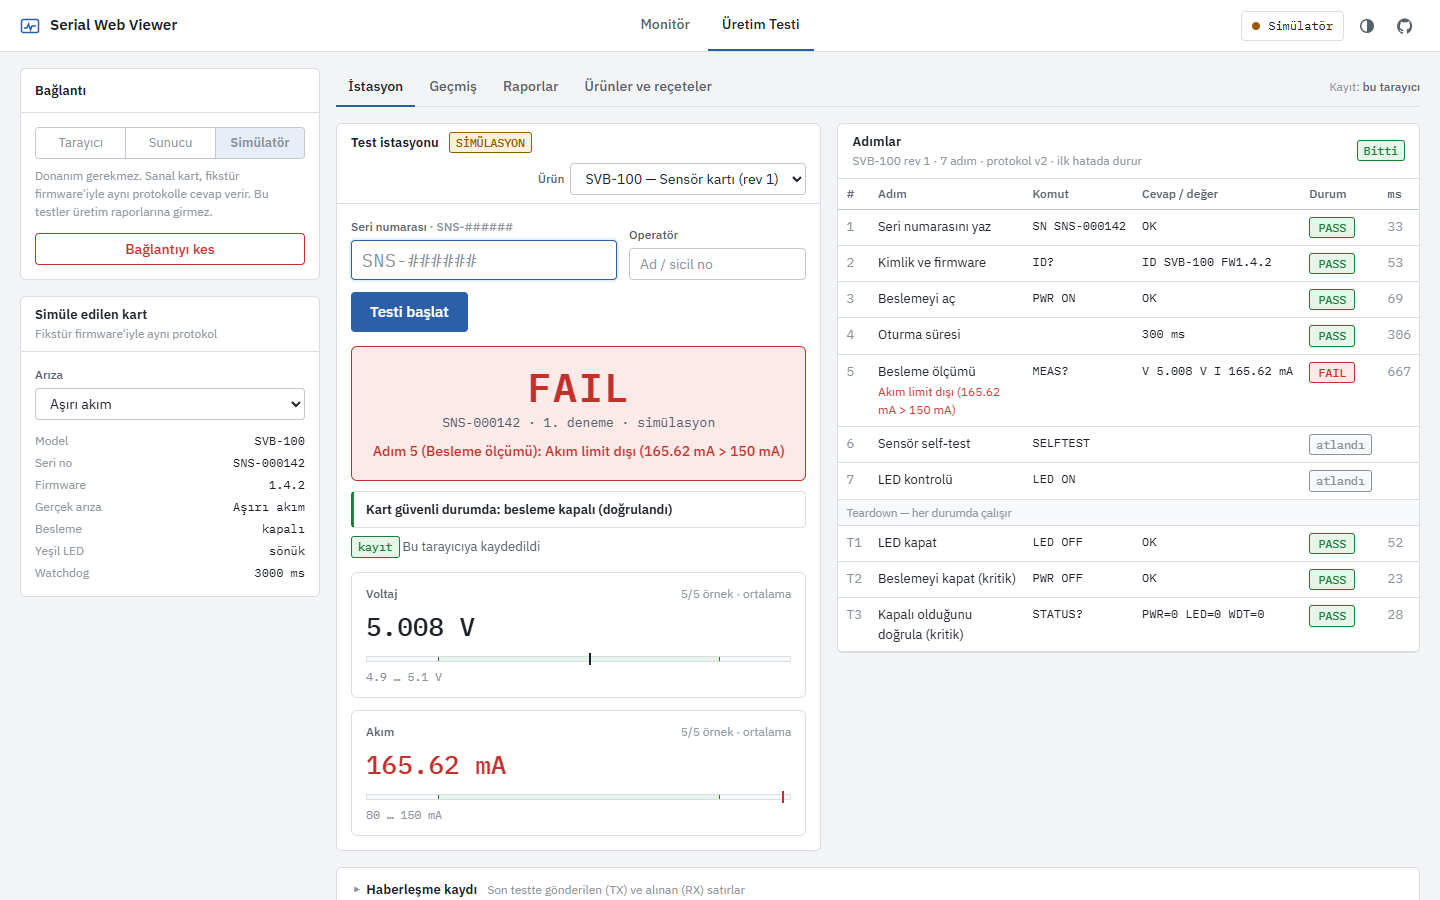
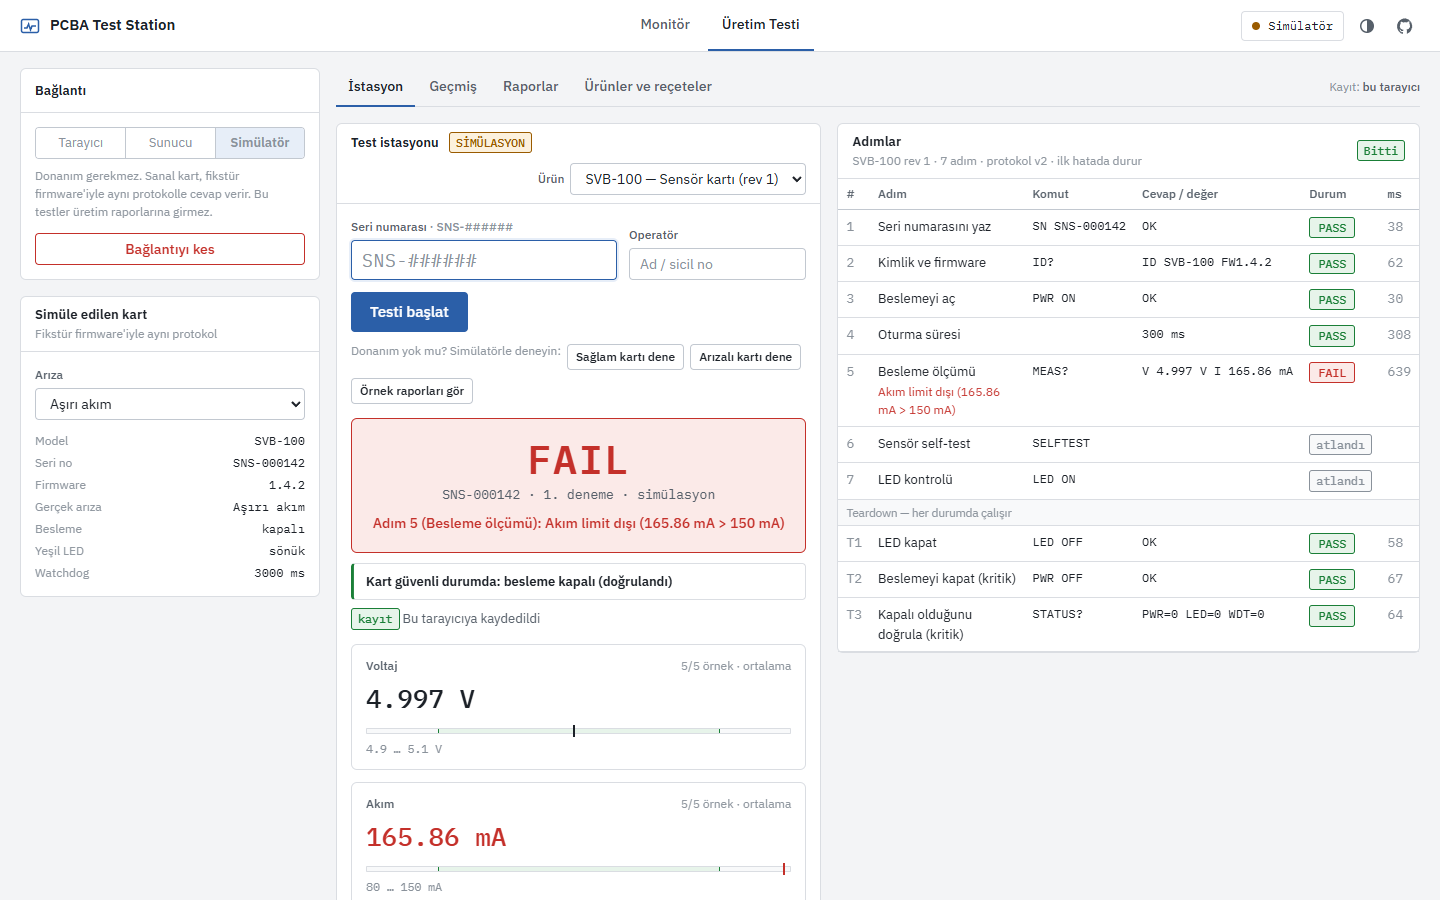
docs: sync the Turkish README and retake screenshots with the new name
README.tr.md gets the details added to the English README (time zones, interrupted runs, security headers, sample data, quick-try buttons). The screenshots showed the old name in the header and predate the quick-try buttons.

diff --git a/README.tr.md b/README.tr.md
@@ -119,7 +119,7 @@ Konsolda `İlk kurulum: … kurulum kodu: XXXX` satırını görün, `http://loc
 |---|---|---|
 | `PORT` / `HOST` | `3000` / `127.0.0.1` | `0.0.0.0` yapılırsa ağdaki herkes arayüze ulaşır; o durumda önüne HTTPS'li bir ters vekil koyun |
 | `BAUD_RATE` | `9600` | Varsayılan baud rate (arayüzden değiştirilebilir) |
-| `DB_PATH` | `./data/serial-viewer.db` | SQLite dosyası |
+| `DB_PATH` | `./data/serial-viewer.db` | SQLite dosyası (adı projenin ilk adından kalma; mevcut kurulumlar için korunuyor) |
 | `STATION_ID`, `FIXTURE_ID` | bilgisayar adı, boş | Her kayda yazılır |
 | `CALIBRATION_ID`, `CALIBRATION_DUE` | boş | Kalibrasyon kaydı; son tarih geçtiyse gerçek kart testi reddedilir |
 | `BUILD_SHA` | boş | Kayıtlardaki uygulama sürümüne eklenir |
@@ -187,8 +187,9 @@ node scripts/db.js restore yedek-2026-10-26.db   # sunucu kapalıyken
 | `public/js/results-store.js` | Sunucu ve tarayıcı deposu, aynı arayüzle |
 | `public/js/production.js` | Kayıt doğrulama, tekrar test kuralı, CSV, verim ve Cpk |
 | `public/js/history-ui.js`, `reports-ui.js`, `products-ui.js` | Geçmiş, raporlar, reçete editörü |
+| `public/js/demo-data.js` | Örnek veri: sanal saatte iki haftalık simüle üretim |
 | `public/js/monitor.js` | Ham log, HEX, kayıt, grafikler, komut gönderme |
-| `server.js`, `lib/` | Express, Socket.io köprüsü ve port kilidi, kimlik doğrulama, REST API |
+| `server.js`, `lib/` | Express, Socket.io köprüsü ve port kilidi, kimlik doğrulama, REST API, güvenlik başlıkları |
 | `db.js` | SQLite şeması, sürüm geçişleri, sayfalı sorgular, akışlı dışa aktarma, yedek |
 | `examples/arduino/svb_fixture` | Protokolü uygulayan fikstür firmware'i |
 
@@ -209,7 +210,7 @@ Tüm uçlar oturum ister (`/health` hariç). Hatalar `{ errors: [...], code? }` 
 | POST | `/api/runs` (rezervasyon), `/api/runs/:runId/abandon` | operatör |
 | POST | `/api/tests` (`runId` ile idempotent; karar sunucuda hesaplanır) | operatör |
 | GET | `/api/tests?…&limit=&offset=` (özet + toplam), `/api/tests/:id` (detay), `/api/tests/export.csv` (akışlı) | operatör |
-| GET | `/api/reports`, `/api/reports/measurement?product=&key=` | operatör |
+| GET | `/api/reports?tz=`, `/api/reports/measurement?product=&key=` | operatör |
 | GET | `/api/audit` | mühendis |
 | GET | `/api/admin/backup`, `/api/users` … | yönetici |
 
@@ -224,9 +225,9 @@ npm run lint
 - **Ölçüm ve karar:** NaN / Infinity / taşma, eksik ve fazla örnek, değerlendirme modları, kayıt-reçete uyumu.
 - **Protokol ve kanal:** geç `@OK`, yinelenen cevap, kuyruk sırası, test kilidi, v1 koruma penceresi, heartbeat.
 - **Runner + simülatör:** her arıza türü, iptal, beklenmeyen hata, bağlantı kopması, yapışmış röle, watchdog.
-- **Sunucu (SerialPortMock ve gerçek Socket.io istemcileri):** port kilidi, başka sekmeden yazma/bağlantı kesme, hızlı yeniden bağlanma, kaybolan port, roller, rezervasyon yarışı, idempotent kayıt, CSV formül enjeksiyonu, 3000 satırlık akışlı dışa aktarma, şema taşıma, yedek ve geri yükleme.
-- **Tarayıcı deposu (fake-indexeddb):** sekmeler arası rezervasyon, gönderim kuyruğu, depolama hatası, eski veri aktarımı.
-- **Uçtan uca (Playwright):** simülatörle test, çift başlatma, güvenli olmayan kart, test sırasında gönderim kilidi, operatör sorusundan testi durdurma, sayfa kapanınca yarım kalan testin kurtarılması, taslak/yayın, FAIL sınırı ve yeniden açma, örnek veri, ilk ziyarette simülatör; sunucu modunda ilk kurulum, sahte seri porttan gerçek kart testi, tüm ekranların CSP altında hatasız çalışması, iki sekme, kaybolan kayıt cevabı + sayfa yenileme, kablo çıkarma, PASS sonrası gerekçe, yetkisiz değişiklik ve denetim kaydı.
+- **Sunucu (SerialPortMock ve gerçek Socket.io istemcileri):** port kilidi, başka sekmeden yazma/bağlantı kesme, hızlı yeniden bağlanma, kaybolan port, roller, rezervasyon yarışı, idempotent kayıt, yarım kalan testlerin serbest bırakılması, CSV formül enjeksiyonu, 3000 satırlık akışlı dışa aktarma, raporlarda ve CSV'de saat dilimi, şema taşıma, yedek ve geri yükleme, güvenlik başlıkları, düzgün kapanma.
+- **Tarayıcı deposu (fake-indexeddb):** sekmeler arası rezervasyon, gönderim kuyruğu, depolama hatası, eski veri aktarımı, örnek veri.
+- **Uçtan uca (Playwright):** simülatörle test, çift başlatma, güvenli olmayan kart, test sırasında gönderim kilidi, operatör sorusundan testi durdurma, sayfa kapanınca yarım kalan testin kurtarılması, taslak/yayın, FAIL sınırı ve yeniden açma, örnek veri, hızlı deneme düğmeleri, ilk ziyarette simülatör, telefon düzeni; sunucu modunda ilk kurulum, sahte seri porttan gerçek kart testi, tüm ekranların CSP altında hatasız çalışması, iki sekme, kaybolan kayıt cevabı + sayfa yenileme, kablo çıkarma, PASS sonrası gerekçe, yetkisiz değişiklik ve denetim kaydı.
 
 CI her push'ta birim testlerini Node 22 ve 24'te, uçtan uca testleri Chromium'da çalıştırır, fikstür firmware'ini derler ve ancak hepsi geçerse `main`'i GitHub Pages'e yayınlar.
 
